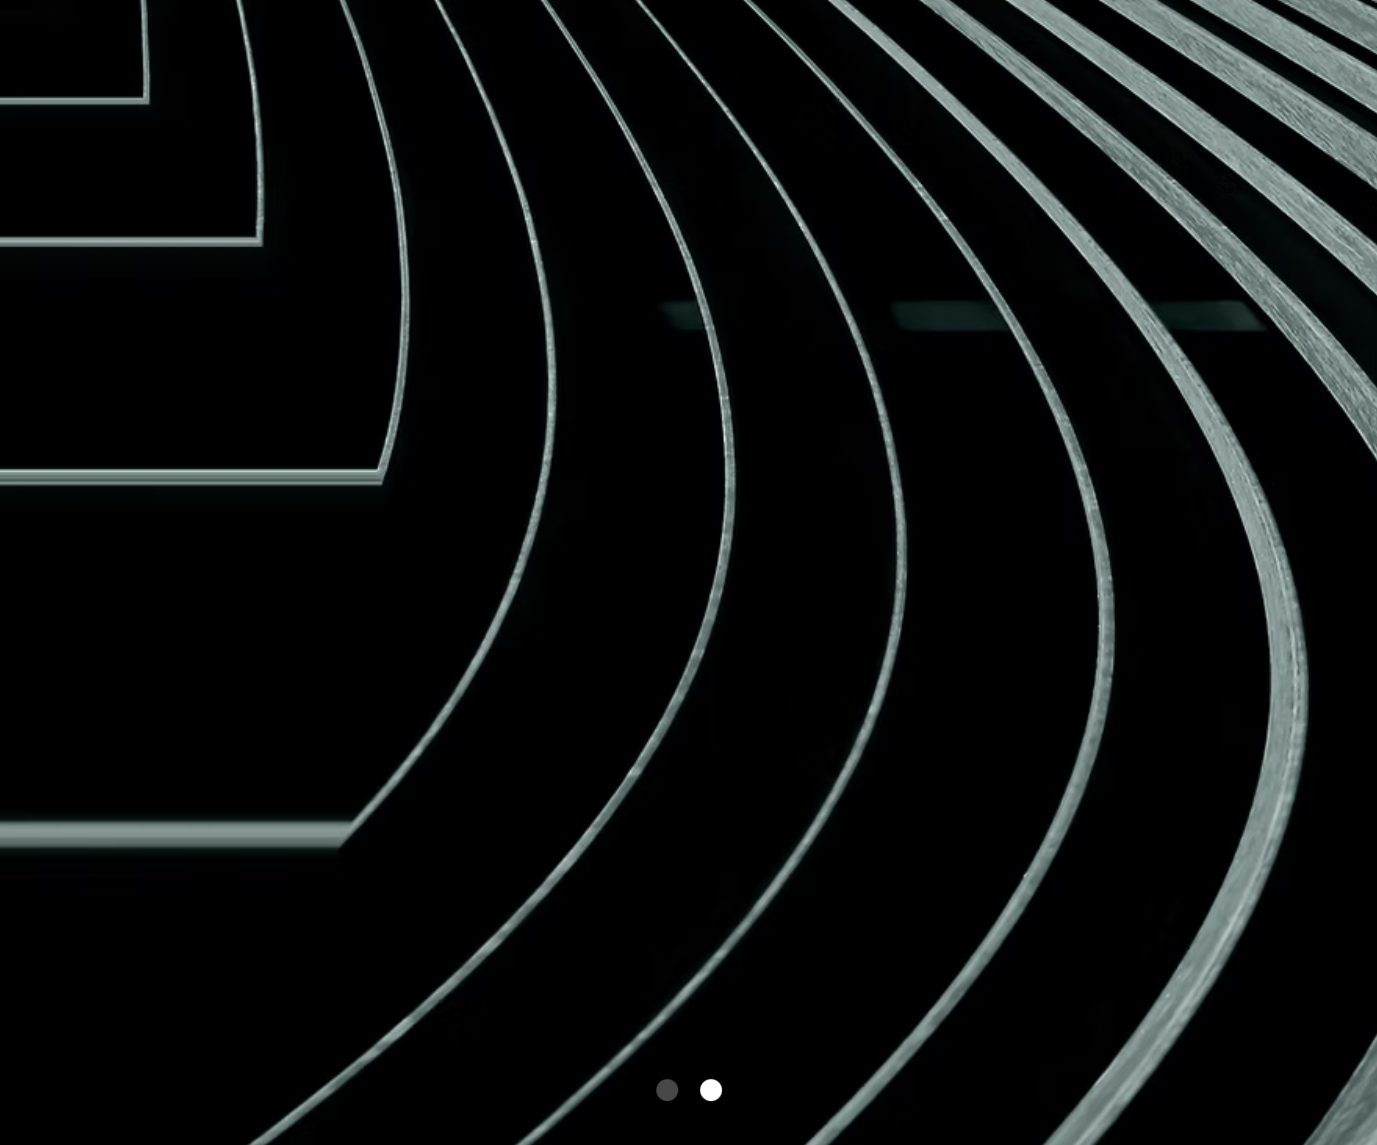
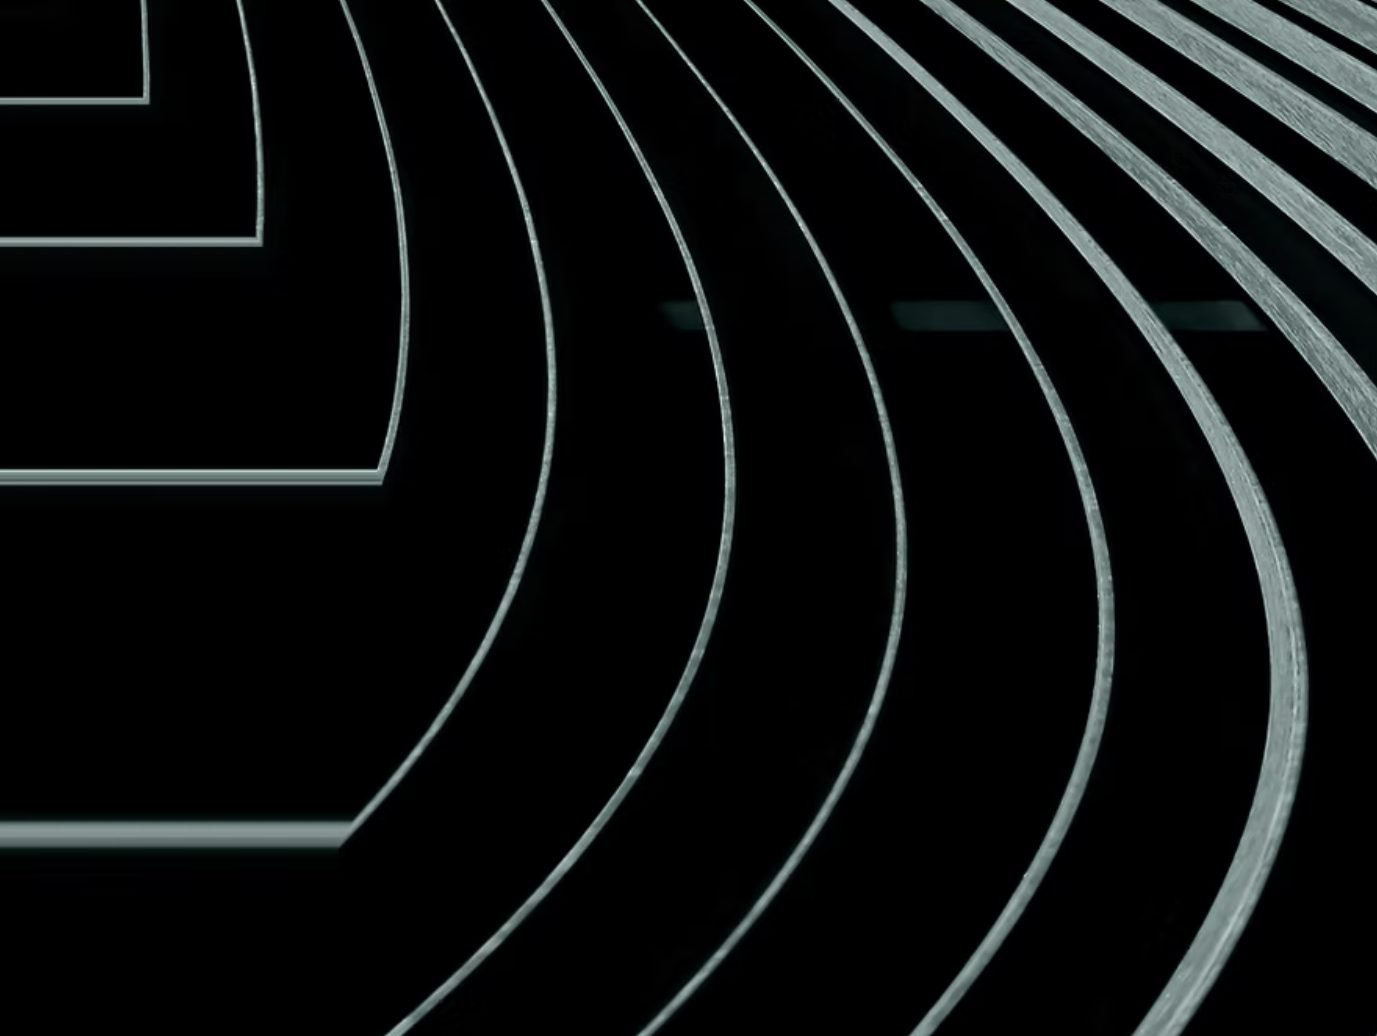
Visual aesthetic audit fixes + department pages populated from live site
AUDIT (11 pages, desktop+mobile, multi-agent review of full-page screenshots;
37 findings clustered into these fixes):
- q1report.jpg had the ORIGINAL site's carousel dots baked into the artwork
  (flagged on 10 pages as a 'broken carousel') — cropped out of the image
- derivatives-1.jpg bright monitor-edge band on the right — cropped out
- Department pages: heading/rule/copy now share one max-w-4xl measure (no
  more full-width rule over an empty right column)
- Index Construction: process step numbers navy/40->navy/60 (contrast),
  2-line heading reserve aligns the 4-up body row
- About: hero bottom padding; team cards equal-height captions (flex-1),
  eager-loaded portraits, object-position tuned so the FS sign isn't clipped
  mid-letter
- Newsroom: hero bottom padding; 'Okt' -> 'Oct' (German locale leftover)
- Home: dept grid orphan cell filled (last card spans 2 cols); CTA/footer
  hairline divider (also on Social)
- StatBlock labels navy/55->navy/70 (AA contrast)
- Contact: heading now leads on mobile (image no longer order-first);
  tighter message field
- Footer 'Q1 Report' heading in Georgia (brand heading font)
- 404: balanced text wrapping

DEPARTMENT CONTENT (from fs-student-hedgefund.com/departments/*):
- Live naming + numbering adopted: 01 Index Construction, 02 Trading &
  Derivatives, 03 Hedge Fund, 04 Quantitative Team ('Department 0N' eyebrows;
  nav/footer/home cards renamed; routes unchanged)
[…]

diff --git a/src/pages/Home.tsx b/src/pages/Home.tsx
@@ -5,6 +5,7 @@ import Button from '../components/Button'
 import StatBlock from '../components/StatBlock'
 import { usePageTitle } from '../lib/usePageTitle'
 
+// Order and naming follow the live site (Departments 01–04) + Media & Community.
 const DEPT_CARDS = [
   {
     name: 'Index Construction',
@@ -12,17 +13,17 @@ const DEPT_CARDS = [
     desc: 'Designing and maintaining custom indices through rigorous methodology, transparent selection criteria, and systematic rebalancing.',
   },
   {
+    name: 'Trading & Derivatives',
+    to: '/derivatives',
+    desc: 'Active trading strategies and derivatives-based approaches with a focus on risk management, execution, and market microstructure.',
+  },
+  {
     name: 'Hedge Fund',
     to: '/hedge-fund',
     desc: 'Multi-strategy fund combining discretionary and systematic approaches to generate risk-adjusted returns across market environments.',
   },
   {
-    name: 'Derivatives & Trading',
-    to: '/derivatives',
-    desc: 'Active trading strategies and derivatives-based approaches with a focus on risk management, execution, and market microstructure.',
-  },
-  {
-    name: 'Quant',
+    name: 'Quantitative Team',
     to: '/quant',
     desc: 'Systematic investment strategies built on rigorous research, quantitative modelling, and data-driven analysis across asset classes.',
   },
@@ -98,11 +99,13 @@ export default function Home() {
         <Container>
           <h2 className="font-display text-h1 font-bold text-navy">Our Departments</h2>
           <div className="mt-10 grid gap-5 sm:grid-cols-2 lg:grid-cols-3">
-            {DEPT_CARDS.map((c) => (
+            {DEPT_CARDS.map((c, i) => (
               <Link
                 key={c.to}
                 to={c.to}
-                className="group flex flex-col justify-between border border-navy/10 bg-white p-7 transition-colors hover:border-navy/30"
+                className={`group flex flex-col justify-between border border-navy/10 bg-white p-7 transition-colors hover:border-navy/30 ${
+                  i === DEPT_CARDS.length - 1 ? 'lg:col-span-2' : '' /* fills the 3-col grid's orphan cell */
+                }`}
               >
                 <div>
                   <h3 className="font-display text-h3 font-bold text-navy">{c.name}</h3>
@@ -117,8 +120,8 @@ export default function Home() {
         </Container>
       </section>
 
-      {/* CTA */}
-      <section className="bg-navy text-white">
+      {/* CTA — hairline divider separates it from the footer's identical navy band */}
+      <section className="border-b border-white/10 bg-navy text-white">
         <Container className="flex flex-col items-start gap-8 py-16 md:flex-row md:items-center md:justify-between md:py-24">
           <h2 className="font-display text-h1 font-bold">Be Where Talent Starts.</h2>
           <Button to="/contact" variant="light">

diff --git a/src/pages/IndexConstruction.tsx b/src/pages/IndexConstruction.tsx
@@ -29,15 +29,17 @@ export default function IndexConstruction() {
       </section>
 
       <section className="container-page py-16 md:py-24">
-        <div className="max-w-4xl space-y-6 text-lead text-navy/85">
+        <p className="font-sans text-sm font-bold uppercase tracking-[0.2em] text-navy/60">Department 01</p>
+        <div className="mt-6 max-w-4xl space-y-6 text-lead text-navy/85">
           <p>
-            The Index Construction Department designs and launches publicly tradable financial indices, taking ideas
-            from raw sector research all the way through to a live, investable product.
+            The Index Construction department translates market insights into investable strategies. Our members
+            analyze financial markets, identify opportunities, and develop thematic baskets by selecting relevant
+            underlyings across asset classes such as equities, commodities, and alternatives.
           </p>
           <p>
-            Our process follows a rigorous, transparent methodology — from defining the eligible universe and
-            designing weighting schemes to backtesting across market regimes and maintaining each index through
-            disciplined rebalancing.
+            These baskets are then transformed into structured indices with defined weighting methodologies in
+            collaboration with our partner Solactive. Building on this, we work with UniCredit to structure tailored
+            financial products, bringing our ideas from research into real-world market applications.
           </p>
           <p className="font-display text-h3 font-bold text-navy">
             In partnership with Solactive and UniCredit, we build real financial products — not simulations.
@@ -51,8 +53,9 @@ export default function IndexConstruction() {
           <ol className="mt-10 grid gap-x-8 gap-y-10 sm:grid-cols-2 lg:grid-cols-4">
             {STEPS.map((s) => (
               <li key={s.n} className="border-t-2 border-navy/20 pt-5">
-                <div className="font-display text-3xl font-bold text-navy/40">{s.n}</div>
-                <h3 className="mt-2 font-display text-h3 font-bold text-navy">{s.title}</h3>
+                <div className="font-display text-3xl font-bold text-navy/60">{s.n}</div>
+                {/* two-line reserve keeps the body paragraphs aligned across the 4-up row */}
+                <h3 className="mt-2 font-display text-h3 font-bold text-navy lg:min-h-[2lh]">{s.title}</h3>
                 <p className="mt-2 text-navy/70">{s.desc}</p>
               </li>
             ))}

diff --git a/src/lib/departments.ts b/src/lib/departments.ts
@@ -1,10 +1,12 @@
-// Content for the department pages — one record drives the shared DepartmentPage.
-export type Dept = { name: string; hero: string; body: string[] }
+// Content for the department pages — sourced verbatim from the live site
+// (fs-student-hedgefund.com/departments/*), which numbers the departments and
+// names them "Trading & Derivatives" / "Quantitative Team".
+// Index Construction has its own richer page (IndexConstruction.tsx).
+export type Dept = { num: string; name: string; hero: string; body: string[] }
 
-// Index Construction has its own richer page (IndexConstruction.tsx); the rest
-// share this template.
 export const DEPARTMENTS_DATA: Record<string, Dept> = {
   'hedge-fund': {
+    num: '03',
     name: 'Hedge Fund',
     hero: 'hedgefund-1.jpg',
     body: [
@@ -12,7 +14,8 @@ export const DEPARTMENTS_DATA: Record<string, Dept> = {
     ],
   },
   derivatives: {
-    name: 'Derivatives & Trading',
+    num: '02',
+    name: 'Trading & Derivatives',
     hero: 'derivatives-1.jpg',
     body: [
       'The trading and derivative department brings together students from across disciplines, forming cross-functional teams that collaborate to navigate real-world financial markets. Each team manages a portfolio using a set of derivative instruments spanning multiple asset classes, developing and executing strategies in a structured, competitive environment.',
@@ -20,7 +23,8 @@ export const DEPARTMENTS_DATA: Record<string, Dept> = {
     ],
   },
   quant: {
-    name: 'Quant',
+    num: '04',
+    name: 'Quantitative Team',
     hero: 'quant-1.jpg',
     body: [
       'The Quantitative Research department brings together students with a passion for mathematics, data science, and financial markets, forming collaborative teams that develop and apply systematic investment strategies. Each team works to research, build, and refine quantitative models and analytical tools that support more informed investment decisions across asset classes.',

diff --git a/src/pages/DepartmentPage.tsx b/src/pages/DepartmentPage.tsx
@@ -24,12 +24,16 @@ export default function DepartmentPage({ slug }: { slug: string }) {
       </section>
 
       <section className="container-page py-16 md:py-24">
-        <h2 className="font-display text-h1 font-bold text-navy">About</h2>
-        <div className="mt-5 h-px w-full bg-navy/15" />
-        <div className="mt-8 max-w-4xl space-y-5 text-lead text-navy/85">
-          {d.body.map((p, i) => (
-            <p key={i}>{p}</p>
-          ))}
+        {/* Heading, rule and copy share one measure so the rule doesn't run into an empty right column */}
+        <div className="max-w-4xl">
+          <p className="font-sans text-sm font-bold uppercase tracking-[0.2em] text-navy/60">Department {d.num}</p>
+          <h2 className="mt-3 font-display text-h1 font-bold text-navy">About</h2>
+          <div className="mt-5 h-px w-full bg-navy/15" />
+          <div className="mt-8 space-y-5 text-lead text-navy/85">
+            {d.body.map((p, i) => (
+              <p key={i}>{p}</p>
+            ))}
+          </div>
         </div>
       </section>
     </article>

diff --git a/src/lib/nav.ts b/src/lib/nav.ts
@@ -2,11 +2,13 @@
 
 export type NavItem = { label: string; to: string }
 
+// Department names/order follow the live site: 01 Index Construction,
+// 02 Trading & Derivatives, 03 Hedge Fund, 04 Quantitative Team.
 export const DEPARTMENTS: NavItem[] = [
   { label: 'Index Construction', to: '/index-construction' },
+  { label: 'Trading & Derivatives', to: '/derivatives' },
   { label: 'Hedge Fund', to: '/hedge-fund' },
-  { label: 'Derivatives & Trading', to: '/derivatives' },
-  { label: 'Quant', to: '/quant' },
+  { label: 'Quantitative Team', to: '/quant' },
   { label: 'Media & Community', to: '/social' },
 ]
 
@@ -14,9 +16,9 @@ export const FOOTER_PAGES: NavItem[] = [
   { label: 'Newsroom', to: '/newsroom' },
   { label: 'Research', to: '/research' },
   { label: 'Index Construction', to: '/index-construction' },
+  { label: 'Trading & Derivatives', to: '/derivatives' },
   { label: 'Hedge Fund', to: '/hedge-fund' },
-  { label: 'Derivatives & Trading', to: '/derivatives' },
-  { label: 'Quant', to: '/quant' },
+  { label: 'Quantitative Team', to: '/quant' },
   { label: 'Media & Community', to: '/social' },
   { label: 'About', to: '/about' },
   { label: 'Contact Us', to: '/contact' },

diff --git a/src/pages/About.tsx b/src/pages/About.tsx
@@ -24,7 +24,7 @@ export default function About() {
   return (
     <>
       {/* Hero */}
-      <section className="container-page pt-12 md:pt-16">
+      <section className="container-page pt-12 pb-14 md:pt-16 md:pb-20">
         <div className="grid gap-6 md:grid-cols-[1.25fr_1fr] md:items-end">
           <h1 className="font-display text-display text-navy">
             Serious About Finance?
@@ -81,16 +81,16 @@ export default function About() {
 
         <ul className="mt-12 grid gap-6 sm:grid-cols-2 md:grid-cols-3 lg:grid-cols-4">
           {TEAM.map((m) => (
-            <li key={m.name} className="group flex flex-col">
+            <li key={m.name} className="group flex h-full flex-col">
               <div className="overflow-hidden">
                 <img
                   src={A(m.img)}
                   alt={m.name}
-                  className="aspect-[4/5] w-full object-cover transition-transform duration-300 group-hover:scale-[1.03]"
-                  loading="lazy"
+                  className="aspect-[4/5] w-full object-cover object-[50%_40%] transition-transform duration-300 group-hover:scale-[1.03]"
                 />
               </div>
-              <div className="bg-navy px-5 py-4 text-white">
+              {/* flex-1 equalises caption heights so row bottoms align despite wrapping */}
+              <div className="flex-1 bg-navy px-5 py-4 text-white">
                 <div className="font-sans font-extrabold">{m.name}</div>
                 <div className="text-sm text-white/80">{m.role}</div>
                 <div className="mt-1 text-xs text-white/55">{m.bg}</div>

diff --git a/src/pages/Social.tsx b/src/pages/Social.tsx
@@ -117,14 +117,14 @@ export default function Social() {
           <img
             src={A('soc-9.jpg')}
             alt="The FS Student Hedge Fund team at a Frankfurt School event"
-            className="mt-10 aspect-[16/7] w-full object-cover"
+            className="mt-10 aspect-[4/3] w-full object-cover sm:aspect-[16/7]"
             loading="lazy"
           />
         </Container>
       </section>
 
-      {/* CTA */}
-      <section className="bg-navy text-white">
+      {/* CTA — hairline divider separates it from the footer's identical navy band */}
+      <section className="border-b border-white/10 bg-navy text-white">
         <Container className="flex flex-col items-start gap-8 py-16 md:flex-row md:items-center md:justify-between md:py-24">
           <h2 className="font-display text-h1 font-bold">More Into Content Than Spreadsheets?</h2>
           <Button to="/contact" variant="light">

diff --git a/src/pages/Contact.tsx b/src/pages/Contact.tsx
@@ -31,13 +31,14 @@ export default function Contact() {
             </label>
             <label className="block">
               <span className="text-navy">Write a message</span>
-              <textarea rows={5} className={`mt-2 resize-none ${field}`} />
+              <textarea rows={4} className={`mt-2 resize-none ${field}`} />
             </label>
             <Button type="submit">Submit</Button>
           </form>
         </div>
 
-        <div className="relative order-first lg:order-last">
+        {/* Image follows the heading/form on mobile (title leads the page), sits right on desktop */}
+        <div className="relative">
           <div className="absolute -bottom-3 -left-3 hidden h-full w-full bg-mist sm:block" aria-hidden />
           <img
             src={A('contact-mountain.jpg')}

diff --git a/src/pages/Newsroom.tsx b/src/pages/Newsroom.tsx
@@ -16,7 +16,7 @@ export default function Newsroom() {
   return (
     <>
       {/* Hero */}
-      <section className="container-page pt-12 md:pt-16">
+      <section className="container-page pt-12 pb-14 md:pt-16 md:pb-20">
         <p className="font-display text-h3 italic text-navy/60">This Semester</p>
         <h1 className="mt-3 font-display text-display font-bold text-navy">Newsroom</h1>
         <p className="mt-6 max-w-2xl text-lead text-navy/80">
@@ -41,7 +41,7 @@ export default function Newsroom() {
               <div className="flex items-center gap-5">
                 <div className="shrink-0 text-center leading-none">
                   <div className="bg-white/15 px-4 py-2 text-xs font-extrabold uppercase tracking-widest text-white">
-                    Okt
+                    Oct
                   </div>
                   <div className="bg-white px-4 py-2 font-display text-h3 font-bold text-navy">22</div>
                 </div>

diff --git a/src/components/SiteFooter.tsx b/src/components/SiteFooter.tsx
@@ -18,7 +18,7 @@ export default function SiteFooter() {
         {/* Q1 Report CTA card */}
         <div className="relative isolate flex min-h-[300px] flex-col justify-between overflow-hidden p-8 sm:p-10">
           <img src={A('q1report.jpg')} alt="" className="absolute inset-0 -z-10 h-full w-full object-cover" loading="lazy" />
-          <h2 className="font-sans text-5xl font-extrabold sm:text-6xl">Q1 Report</h2>
+          <h2 className="font-display text-5xl font-bold sm:text-6xl">Q1 Report</h2>
           <Button to="/newsroom" variant="light" className="self-start">Get Report</Button>
         </div>
 

diff --git a/src/components/StatBlock.tsx b/src/components/StatBlock.tsx
@@ -2,7 +2,7 @@ export default function StatBlock({ value, label }: { value: string; label: stri
   return (
     <div>
       <div className="font-display text-4xl font-bold text-navy sm:text-5xl">{value}</div>
-      <div className="mt-1 text-sm font-semibold uppercase tracking-wide text-navy/55">{label}</div>
+      <div className="mt-1 text-sm font-semibold uppercase tracking-wide text-navy/70">{label}</div>
     </div>
   )
 }

diff --git a/src/pages/NotFound.tsx b/src/pages/NotFound.tsx
@@ -8,7 +8,7 @@ export default function NotFound() {
     <Container className="flex min-h-[55vh] flex-col items-center justify-center py-24 text-center">
       <p className="font-sans text-sm font-bold uppercase tracking-[0.2em] text-navy/60">404</p>
       <h1 className="mt-4 font-display text-h1 font-bold text-navy">Page not found</h1>
-      <p className="mt-4 max-w-md text-lead text-navy/70">The page you're looking for doesn't exist or has moved.</p>
+      <p className="mt-4 max-w-xl text-balance text-lead text-navy/70">The page you're looking for doesn't exist or has moved.</p>
       <Button to="/" className="mt-8">Back to home</Button>
     </Container>
   )